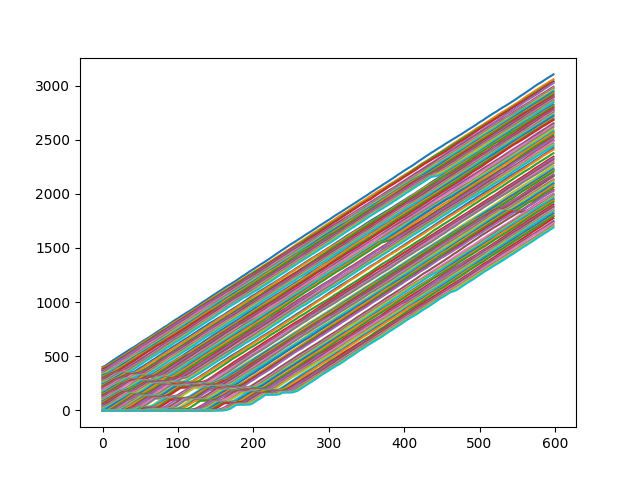
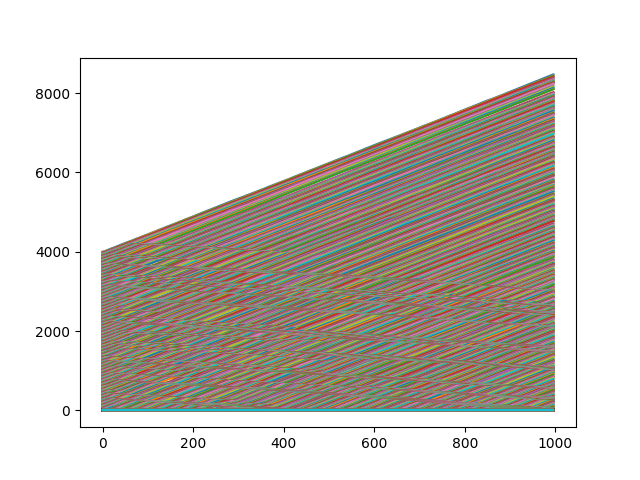
think about amount of ticks and such

diff --git a/config.py b/config.py
@@ -1,15 +1,15 @@
 
 class Config:
 	START_VELOCITY = 2
-	MIN_DISTANCE = 3
+	MIN_DISTANCE = 1
 	MAX_SPEED = 5
 	
 	
-	TICKSPEED = 0.01
+	TICKSPEED = 0.1
 	MAX_TICKS = 1000
 
 	SCREEN_WIDTH, SCREEN_HEIGHT = 1080, 200
 	
-	MAX_CARS = 100
+	MAX_CARS = 1000
 	
 	PLOT_FOLDER = "results"

diff --git a/simulation/__init__.py b/simulation/__init__.py
@@ -32,6 +32,7 @@ def dismiss_sim(df):
 def printGraphs():
     #print(sim.HW.history)
     x = np.matrix(sim.HW.history)
+    print(len(sim.HW.history))
     #plt.ylim(ymin=0)
     plt.plot(x)
     #plt.show()
